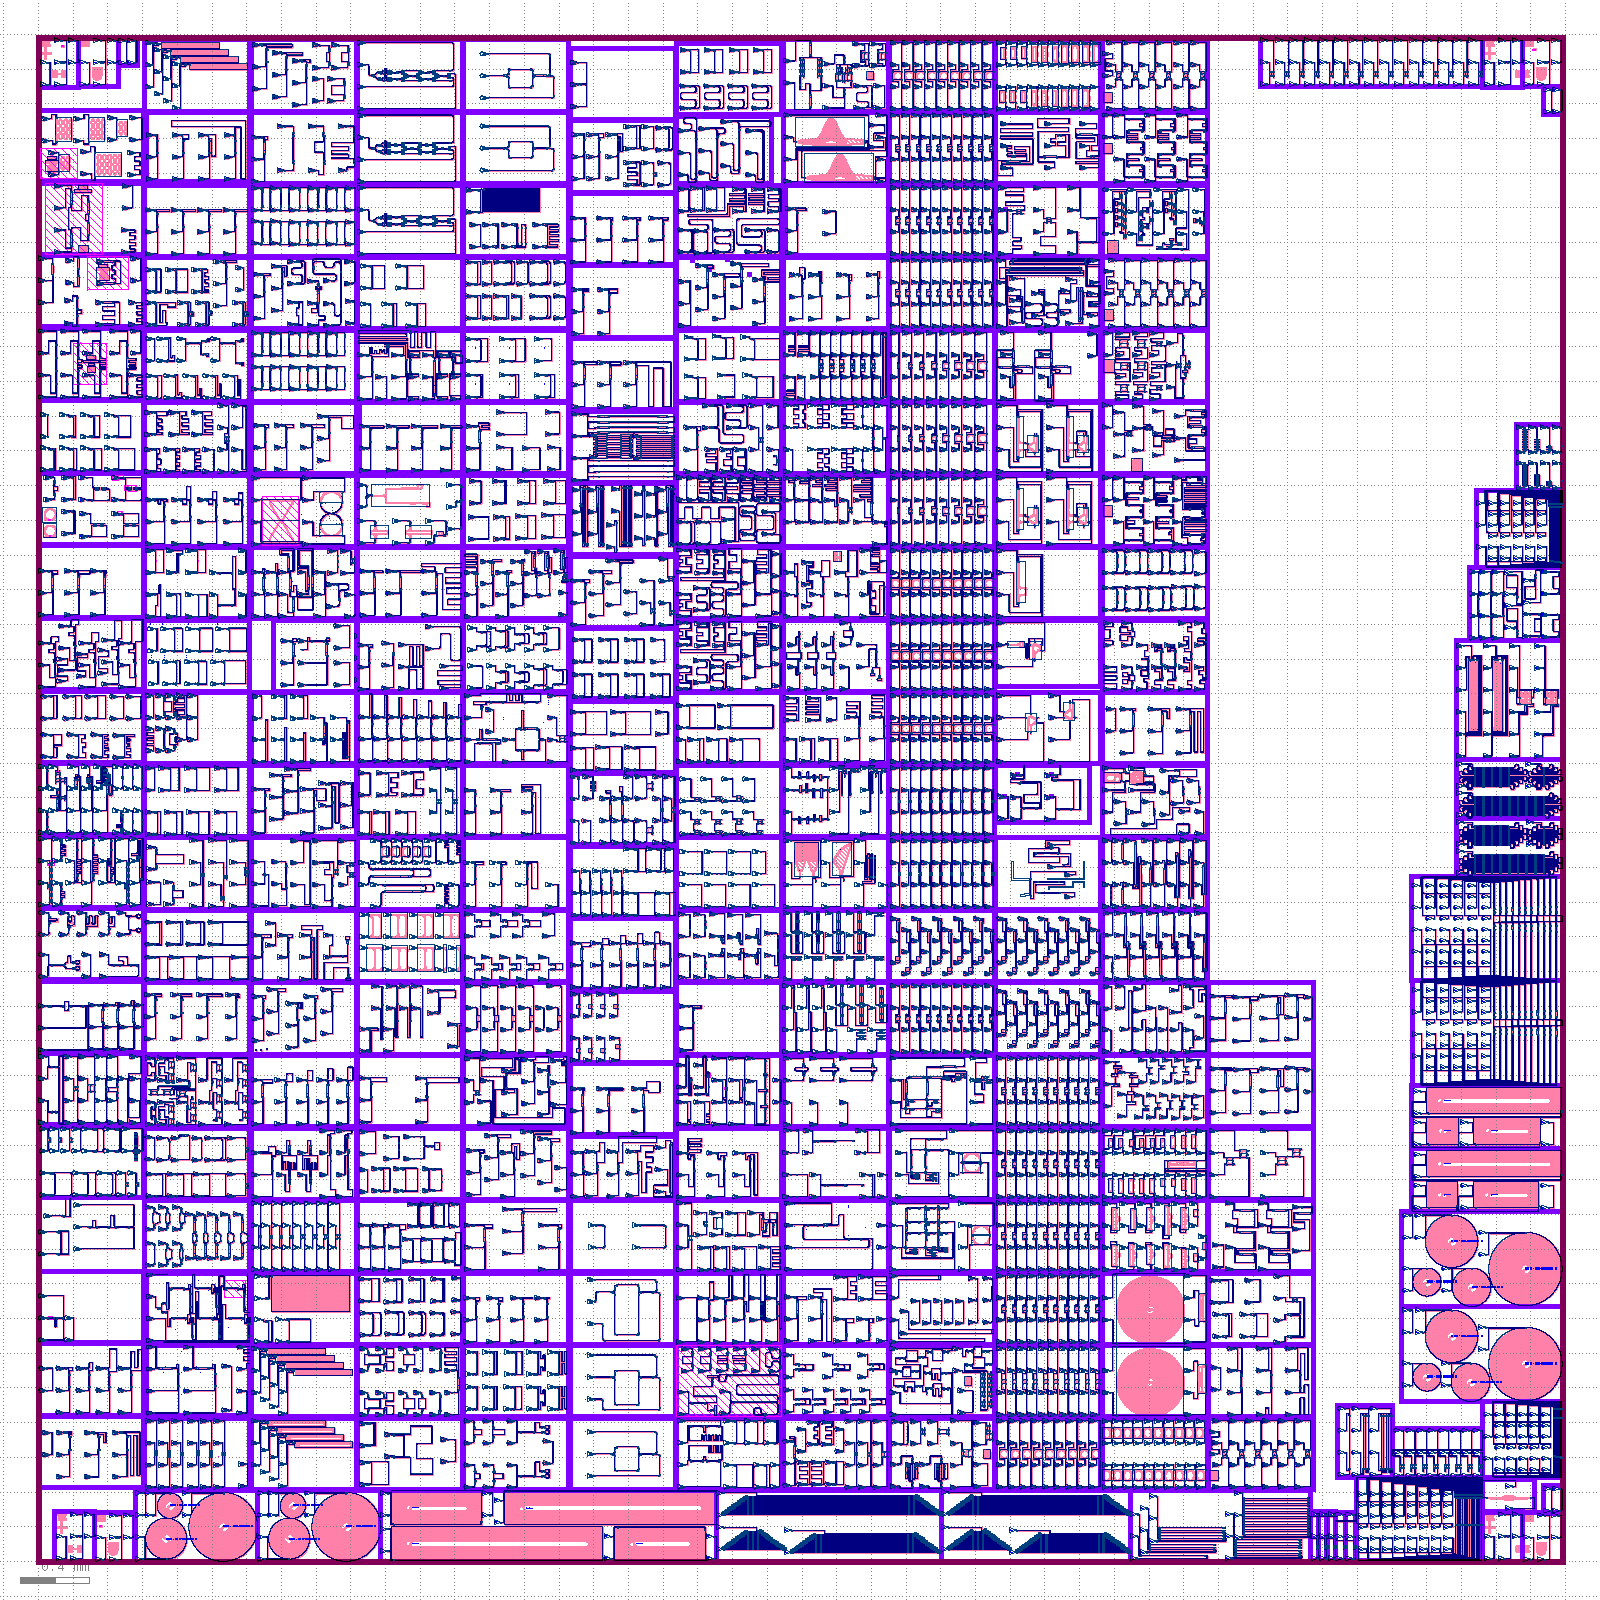
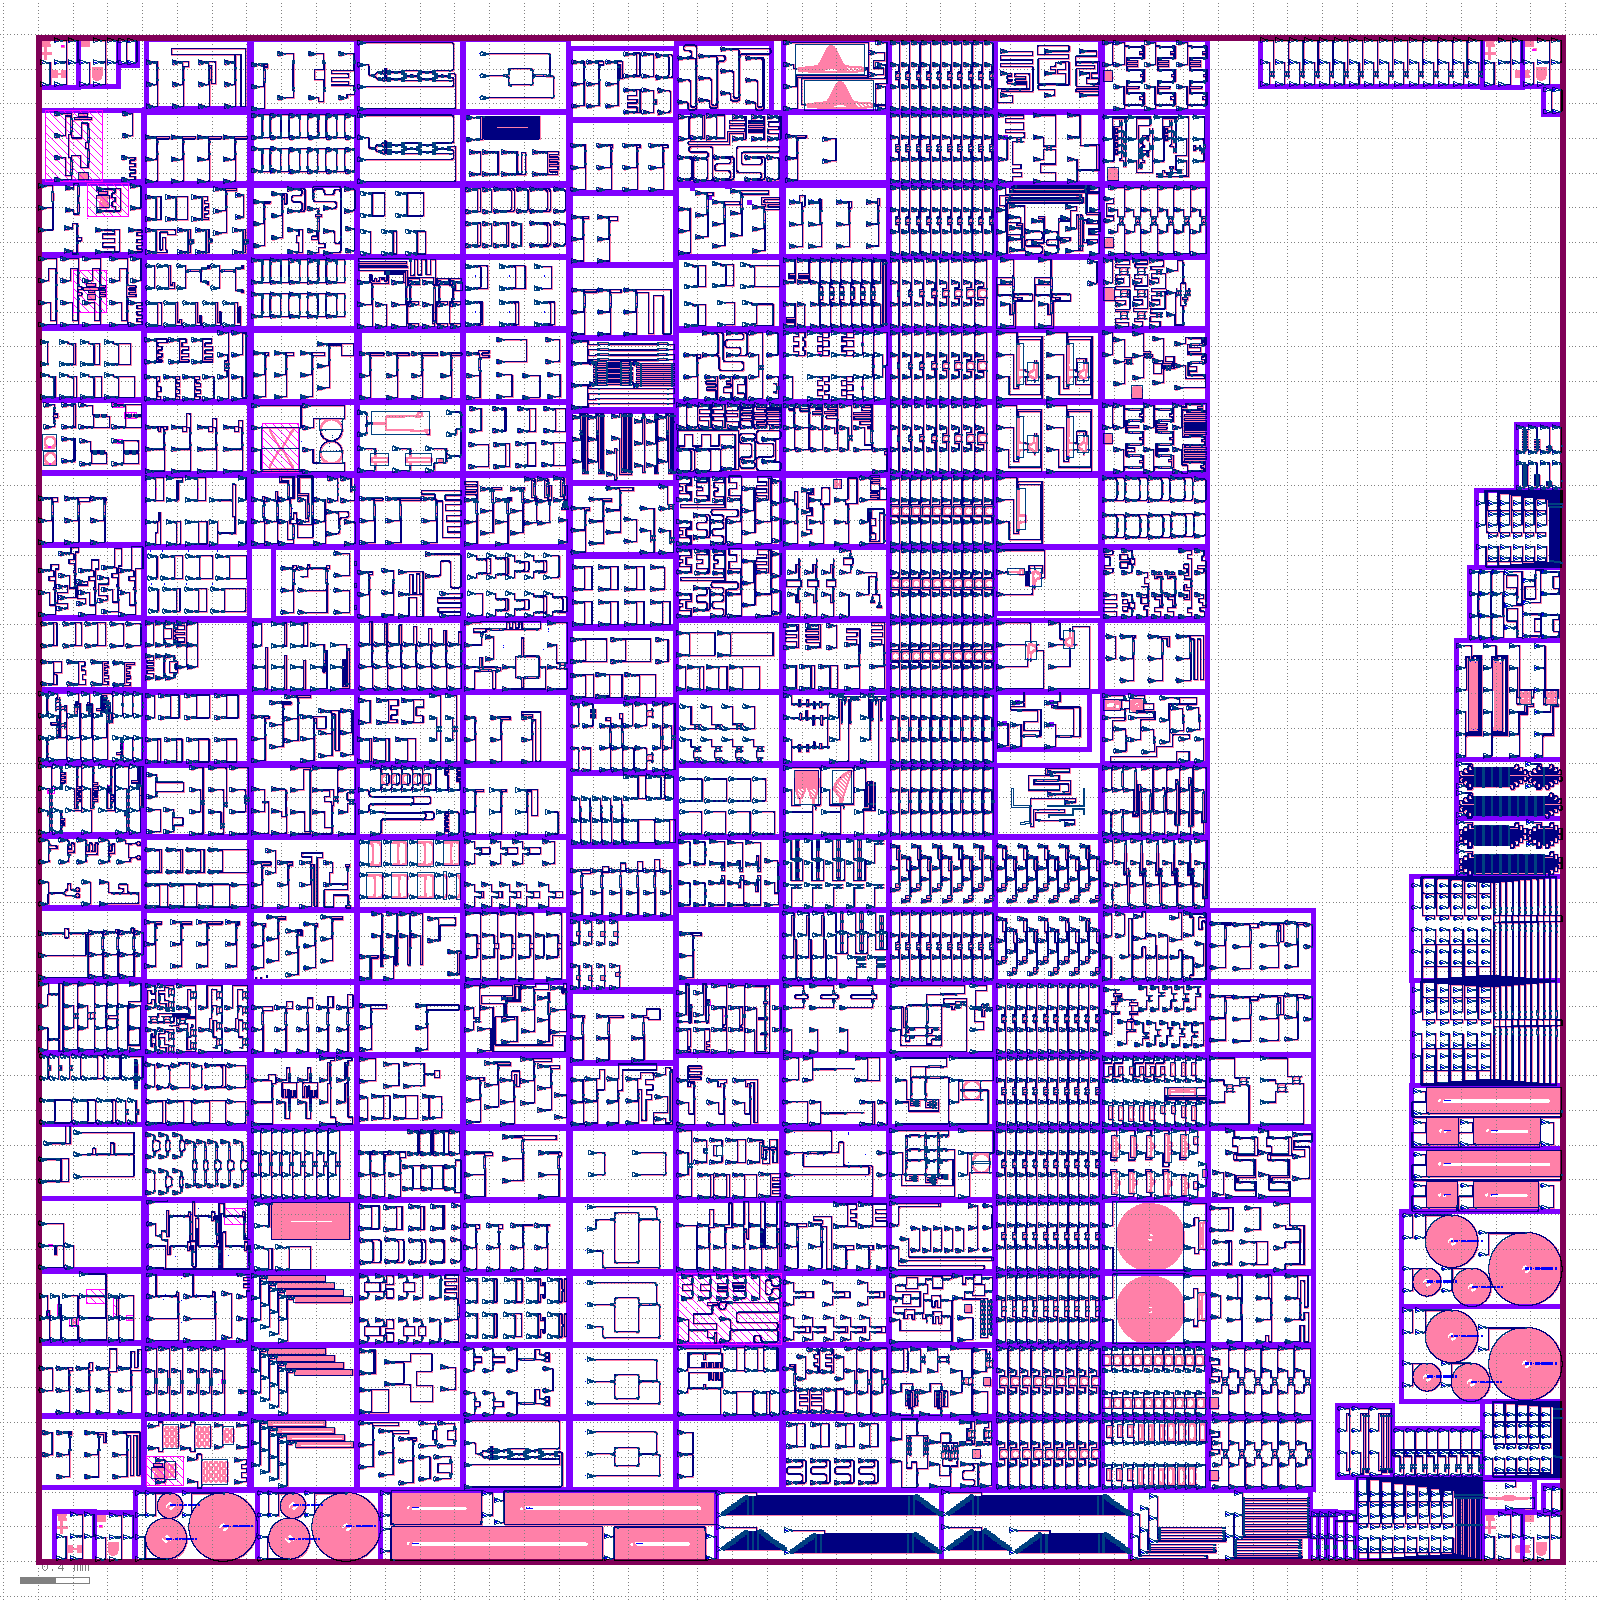
Aggregation layout: https://github.com/SiEPIC/openEBL-2026-10/actions/runs/39207633382/artifacts/12166088496

Changed region(s): [[0.0312, 0.0, 0.8438, 0.9375]]

diff --git a/README.md b/README.md
@@ -103,5 +103,5 @@ The verification and merging is performed using GitHub actions. The repository i
 
 Click on the following link to download the EBeam.oas merged layout file:
 <!-- start-link -->
-https://github.com/SiEPIC/openEBL-2026-10/actions/runs/39093708987/artifacts/12123846782
+https://github.com/SiEPIC/openEBL-2026-10/actions/runs/39207633382/artifacts/12166088496
 <!-- end-link -->
